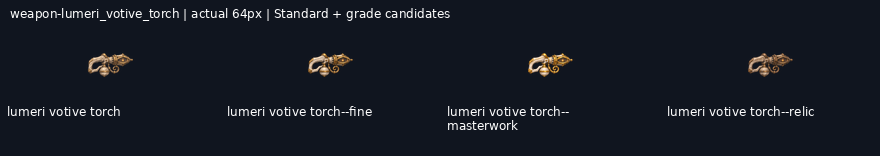
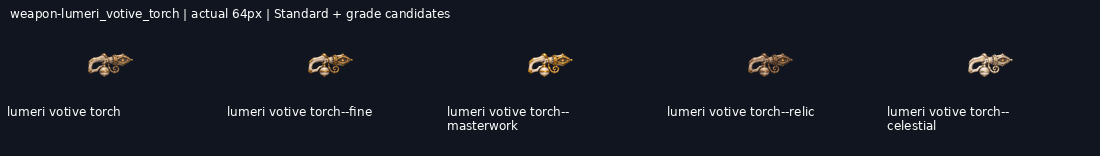
art: draw weapon-lumeri_votive_torch--celestial grade candidate

diff --git a/art/_archive/gear/2026-11-19-kept-blade-grades/HANDOFF.md b/art/_archive/gear/2026-11-19-kept-blade-grades/HANDOFF.md
@@ -1,6 +1,6 @@
 # Gear grade candidates
 
-**204/260 grade candidates delivered** on `art/2026-11-19-kept-blade-grades`. Shared mailbox: https://github.com/leonpentastorm/Project-Heaven-Cry/issues/3 . See claim.json for this lane’s current Standards. Released overlapping blades reuse12 peer candidates, with3 local alternatives archived.
+**205/260 grade candidates delivered** on `art/2026-11-19-kept-blade-grades`. Shared mailbox: https://github.com/leonpentastorm/Project-Heaven-Cry/issues/3 . See claim.json for this lane’s current Standards. Released overlapping blades reuse12 peer candidates, with3 local alternatives archived.
 
 Leon requested continuous candidate production; proof approval is not fabricated. All candidates remain review-candidate, production_approved:false, implementation_ready:false, with outline.review_required:true. Exact outline is measured, never asserted unless the masks match. Per-image registration is uniform scaling/translation only, without warp, silhouette masks, filled pixels or code-drawn substitutes. The generated native remains untouched.
 
@@ -10,12 +10,12 @@ Tomorrow: fetch this branch and develop safely, read the latest issue 3 comments
 
 Peer audit: [coordination/peer-audit-2026-11-19.md](coordination/peer-audit-2026-11-19.md). Peer58 masters/232 exports and12 canonical imports are integrated with versioned alpha<8 cleanup; originals are retained. See coordination/peer-import-v2/manifest.json and post-catalog VALIDATION.json (strict margins pass, solid alpha unchanged). Peer quota resets20 November2026 at09:45:39 Bangkok time; this does not establish this session’s quota.
 
-Remaining: weapon-ork_machete--masterwork, weapon-ork_machete--relic, weapon-ork_machete--celestial, weapon-war_axe--fine, weapon-war_axe--masterwork, weapon-war_axe--relic, weapon-war_axe--celestial, weapon-parlour_pistol--fine, weapon-parlour_pistol--masterwork, weapon-parlour_pistol--relic, weapon-parlour_pistol--celestial, weapon-lever_carbine--fine, weapon-lever_carbine--masterwork, weapon-lever_carbine--relic, weapon-lever_carbine--celestial, weapon-sawn_off--fine, weapon-sawn_off--masterwork, weapon-sawn_off--relic, weapon-sawn_off--celestial, weapon-coach_gun--fine, weapon-coach_gun--masterwork, weapon-coach_gun--relic, weapon-coach_gun--celestial, weapon-legion_bullpup--fine, weapon-legion_bullpup--masterwork, weapon-legion_bullpup--relic, weapon-legion_bullpup--celestial, weapon-whisper_smg--fine, weapon-whisper_smg--masterwork, weapon-whisper_smg--relic, weapon-whisper_smg--celestial, weapon-war_pick--fine, weapon-war_pick--masterwork, weapon-war_pick--relic, weapon-war_pick--celestial, weapon-war_hammer--fine, weapon-war_hammer--masterwork, weapon-war_hammer--relic, weapon-war_hammer--celestial, weapon-short_bow--fine, weapon-short_bow--masterwork, weapon-short_bow--relic, weapon-short_bow--celestial, weapon-lumeri_votive_torch--celestial, weapon-lumeri_cathedral_burner--fine, weapon-lumeri_cathedral_burner--masterwork, weapon-lumeri_cathedral_burner--relic, weapon-lumeri_cathedral_burner--celestial, weapon-whisper_pistol--fine, weapon-whisper_pistol--masterwork, weapon-whisper_pistol--relic, weapon-whisper_pistol--celestial, weapon-whisper_carbine--fine, weapon-whisper_carbine--masterwork, weapon-whisper_carbine--relic, weapon-whisper_carbine--celestial.
+Remaining: weapon-ork_machete--masterwork, weapon-ork_machete--relic, weapon-ork_machete--celestial, weapon-war_axe--fine, weapon-war_axe--masterwork, weapon-war_axe--relic, weapon-war_axe--celestial, weapon-parlour_pistol--fine, weapon-parlour_pistol--masterwork, weapon-parlour_pistol--relic, weapon-parlour_pistol--celestial, weapon-lever_carbine--fine, weapon-lever_carbine--masterwork, weapon-lever_carbine--relic, weapon-lever_carbine--celestial, weapon-sawn_off--fine, weapon-sawn_off--masterwork, weapon-sawn_off--relic, weapon-sawn_off--celestial, weapon-coach_gun--fine, weapon-coach_gun--masterwork, weapon-coach_gun--relic, weapon-coach_gun--celestial, weapon-legion_bullpup--fine, weapon-legion_bullpup--masterwork, weapon-legion_bullpup--relic, weapon-legion_bullpup--celestial, weapon-whisper_smg--fine, weapon-whisper_smg--masterwork, weapon-whisper_smg--relic, weapon-whisper_smg--celestial, weapon-war_pick--fine, weapon-war_pick--masterwork, weapon-war_pick--relic, weapon-war_pick--celestial, weapon-war_hammer--fine, weapon-war_hammer--masterwork, weapon-war_hammer--relic, weapon-war_hammer--celestial, weapon-short_bow--fine, weapon-short_bow--masterwork, weapon-short_bow--relic, weapon-short_bow--celestial, weapon-lumeri_cathedral_burner--fine, weapon-lumeri_cathedral_burner--masterwork, weapon-lumeri_cathedral_burner--relic, weapon-lumeri_cathedral_burner--celestial, weapon-whisper_pistol--fine, weapon-whisper_pistol--masterwork, weapon-whisper_pistol--relic, weapon-whisper_pistol--celestial, weapon-whisper_carbine--fine, weapon-whisper_carbine--masterwork, weapon-whisper_carbine--relic, weapon-whisper_carbine--celestial.
 
 Service-rejected requests (do not repeatedly resubmit): weapon-coach_gun--fine, weapon-legion_bullpup--fine, weapon-lever_carbine--fine, weapon-ork_machete--masterwork, weapon-parlour_pistol--fine, weapon-sawn_off--fine, weapon-short_bow--fine, weapon-war_axe--fine, weapon-war_hammer--fine, weapon-war_pick--fine, weapon-whisper_smg--fine.
 
 Waiting on rejected prerequisites: weapon-coach_gun--celestial, weapon-coach_gun--masterwork, weapon-coach_gun--relic, weapon-legion_bullpup--celestial, weapon-legion_bullpup--masterwork, weapon-legion_bullpup--relic, weapon-lever_carbine--celestial, weapon-lever_carbine--masterwork, weapon-lever_carbine--relic, weapon-ork_machete--celestial, weapon-ork_machete--relic, weapon-parlour_pistol--celestial, weapon-parlour_pistol--masterwork, weapon-parlour_pistol--relic, weapon-sawn_off--celestial, weapon-sawn_off--masterwork, weapon-sawn_off--relic, weapon-short_bow--celestial, weapon-short_bow--masterwork, weapon-short_bow--relic, weapon-war_axe--celestial, weapon-war_axe--masterwork, weapon-war_axe--relic, weapon-war_hammer--celestial, weapon-war_hammer--masterwork, weapon-war_hammer--relic, weapon-war_pick--celestial, weapon-war_pick--masterwork, weapon-war_pick--relic, weapon-whisper_smg--celestial, weapon-whisper_smg--masterwork, weapon-whisper_smg--relic.
 
-Ready independent next steps, in queue order: weapon-lumeri_votive_torch--celestial, weapon-lumeri_cathedral_burner--fine, weapon-whisper_pistol--fine, weapon-whisper_carbine--fine. Other pending grades follow their preceding grade.
+Ready independent next steps, in queue order: weapon-lumeri_cathedral_burner--fine, weapon-whisper_pistol--fine, weapon-whisper_carbine--fine. Other pending grades follow their preceding grade.
 
 Runtime handoff: implementation_ready:false records review status but does not gate the web asset builder. The builder emits grade asset keys; the current UI gear resolver still needs grade-aware selection. Do not claim that runtime grade selection is implemented by these art deliveries.
